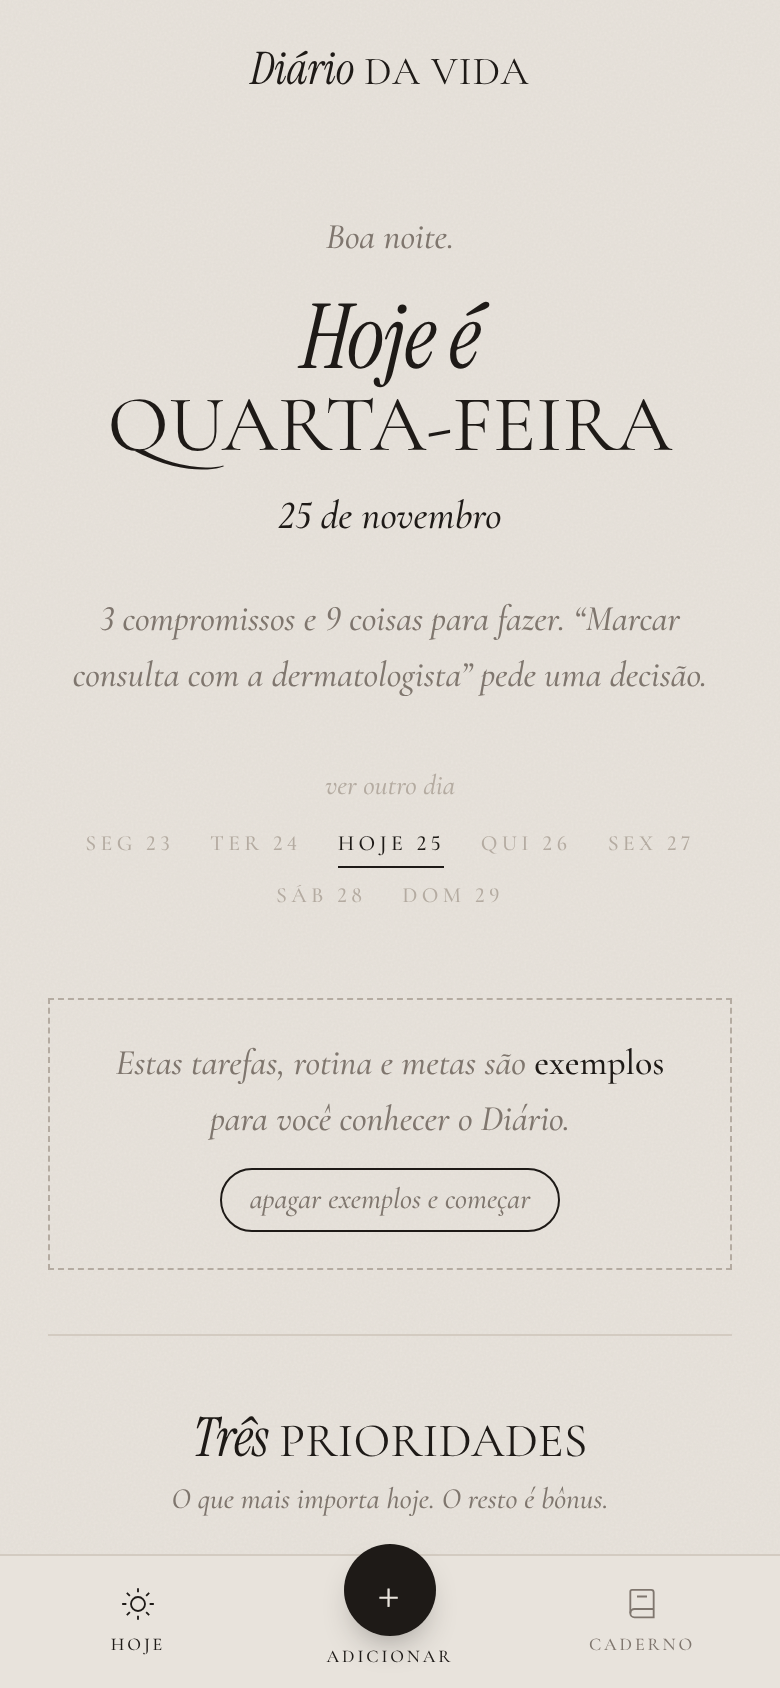
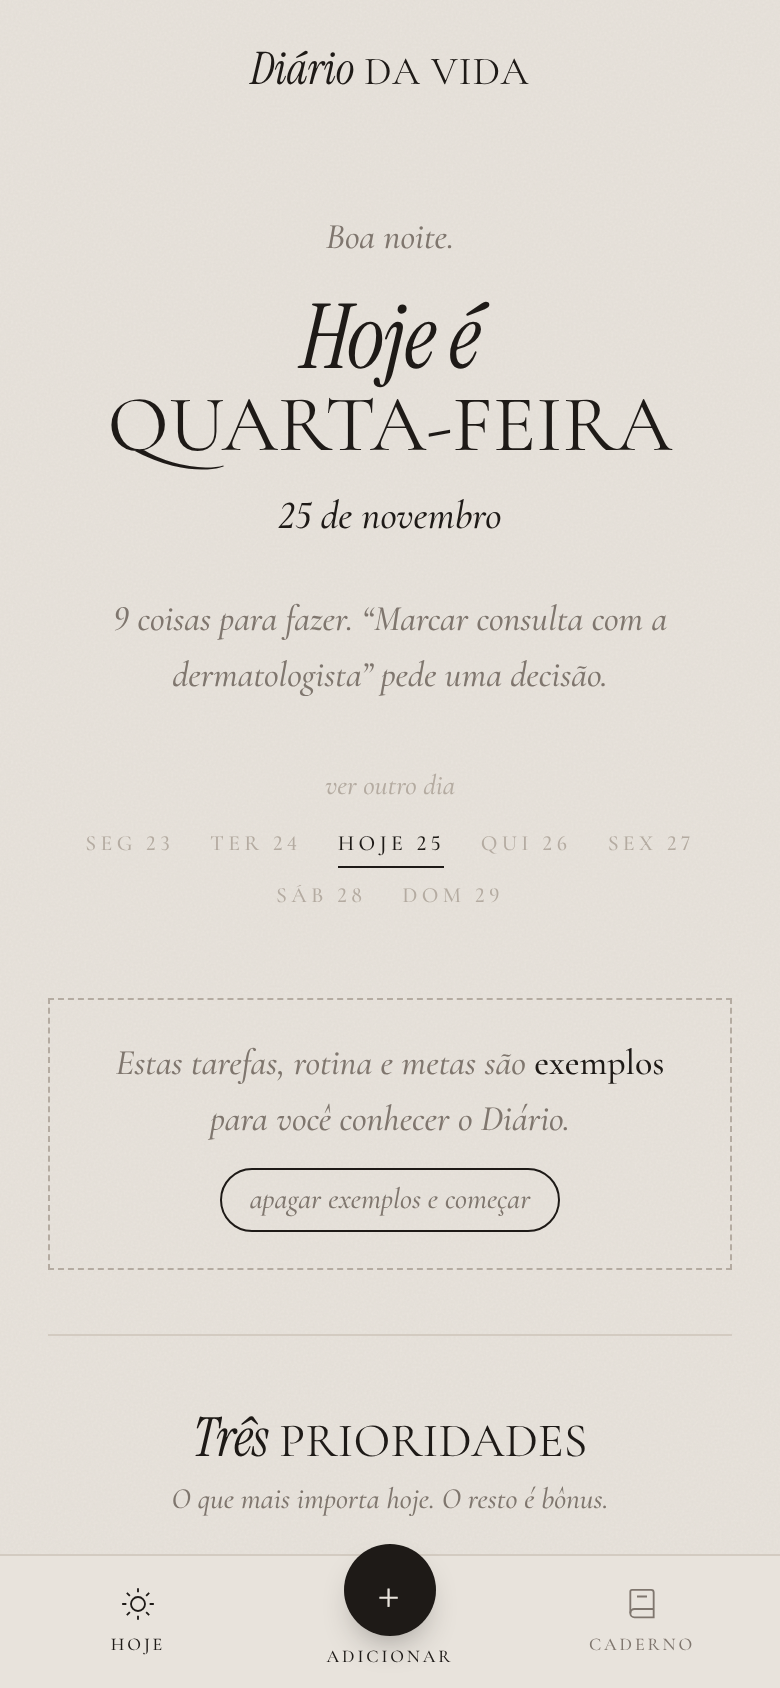
Remove a seção Agenda da tela Hoje
Claude-Session: https://claude.ai/code/session_01MbvNZUwf6py4KLNpPa7D6C

Changed region(s): [[0.1846, 0.3389, 0.7692, 0.4313], [0.8, 0.3697, 0.8308, 0.4005]]

diff --git a/src/app/page.tsx b/src/app/page.tsx
@@ -5,7 +5,7 @@ import { buildBriefing } from '@/lib/briefing';
 import { routineFor, tasksFor, useStore, useToast } from '@/lib/store';
 import type { Goal } from '@/lib/types';
 import { Frontispiece } from '@/components/hoje/Frontispiece';
-import { Agenda, DayList, GoalsLine, Priorities } from '@/components/hoje/Day';
+import { DayList, GoalsLine, Priorities } from '@/components/hoje/Day';
 import { CloseDay } from '@/components/hoje/CloseDay';
 
 const plural = (n: number, one: string, many: string) => `${n} ${n === 1 ? one : many}`;
@@ -19,7 +19,6 @@ export default function HojePage() {
   const sample = useStore((s) => s.sample);
   const clearSample = useStore((s) => s.clearSample);
   const tasks = useStore((s) => s.tasks);
-  const events = useStore((s) => s.events);
   const routine = useStore((s) => s.routine);
   const toast = useToast((s) => s.show);
 
@@ -38,18 +37,16 @@ export default function HojePage() {
 
   const isToday = selected === today;
   const dayTasks = tasksFor(tasks, selected);
-  const dayEvents = events.filter((e) => e.date === selected);
   const dayRoutine = routineFor(routine, selected);
-  const brief = buildBriefing(dayTasks, dayEvents, dayRoutine, isToday);
+  const brief = buildBriefing(dayTasks, [], dayRoutine, isToday);
 
   // Resumo em uma frase.
   const open = dayTasks.filter((t) => !t.done).length + dayRoutine.length;
-  const commitments = dayEvents.filter((e) => !e.free).length;
   const stuck = dayTasks.find((t) => !t.done && !t.star && t.rolled >= 3);
   const summary =
-    open + commitments === 0
+    open === 0
       ? 'Dia livre por enquanto.'
-      : `${commitments ? `${plural(commitments, 'compromisso', 'compromissos')} e ` : ''}${plural(open, 'coisa para fazer', 'coisas para fazer')}.` +
+      : `${plural(open, 'coisa para fazer', 'coisas para fazer')}.` +
         (stuck && isToday ? ` “${stuck.title}” pede uma decisão.` : '');
 
   const bump = (g: Goal) => { setBumped(g.id); setTimeout(() => setBumped(null), 1300); };
@@ -64,7 +61,6 @@ export default function HojePage() {
         </aside>
       )}
       <Priorities tasks={dayTasks} suggestion={brief.suggestion} readOnly={!isToday} />
-      <Agenda events={dayEvents} />
       <DayList date={selected} today={today} tasks={dayTasks} onGoal={bump} />
       <GoalsLine bumped={bumped} />
       {isToday && <CloseDay date={selected} />}

diff --git a/src/components/hoje/Day.tsx b/src/components/hoje/Day.tsx
@@ -2,7 +2,7 @@
 import { AnimatePresence, motion } from 'framer-motion';
 import { MAX_PRIORITIES, routineFor, routineKey, useStore, useToast } from '@/lib/store';
 import { useUI } from '@/lib/ui';
-import type { CalendarEvent, Goal, Task } from '@/lib/types';
+import type { Goal, Task } from '@/lib/types';
 import { MixTitle } from './Title';
 
 const enter = {
@@ -66,24 +66,6 @@ export function Priorities({ tasks, suggestion, readOnly }: { tasks: Task[]; sug
           </li>
         )}
       </ol>
-    </Section>
-  );
-}
-
-/* ---------------- agenda ---------------- */
-export function Agenda({ events }: { events: CalendarEvent[] }) {
-  if (events.length === 0) return null;
-  const sorted = [...events].sort((a, b) => a.start.localeCompare(b.start));
-  return (
-    <Section title="Agenda" note="Compromissos do dia (exemplo; a ligação com o Google Agenda vem depois).">
-      <ul className="agenda">
-        {sorted.map((e) => (
-          <li key={e.id} className={e.free ? 'free' : ''}>
-            <time className="tabular">{e.start}</time>
-            <span>{e.free ? 'livre, de propósito' : e.title}{e.place && !e.free ? <em> · {e.place}</em> : null}</span>
-          </li>
-        ))}
-      </ul>
     </Section>
   );
 }

diff --git a/src/app/hoje.css b/src/app/hoje.css
@@ -37,12 +37,6 @@
 .prio li.slot .num { color: var(--faint); }
 .prio li.slot .text { font-style: italic; color: var(--muted); font-size: 1.05rem; }
 
-/* agenda */
-.agenda { list-style: none; }
-.agenda li { display: grid; grid-template-columns: 64px minmax(0, 1fr); gap: 12px; padding: 6px 0; }
-.agenda time { font-family: var(--f-accent); font-style: italic; font-size: 1.1rem; color: var(--accent); }
-.agenda em { color: var(--muted); }
-.agenda li.free { color: var(--muted); font-style: italic; }
 
 /* lista do dia */
 .list { list-style: none; }

diff --git a/README.md b/README.md
@@ -45,7 +45,7 @@ src/
   components/
     shell/           topo, navegação do celular, login, avisos
     caderno/         registro rápido, imagens, busca
-    hoje/            frontispício, anotar, resumo, prioridades, tarefas, agenda, rotina, metas, fechar o dia
+    hoje/            frontispício, anotar, resumo, prioridades, tarefas, rotina, metas, fechar o dia
     ui/ornaments     ornamentos, selo e ícones
   lib/
     parse.ts         entende "pagar IPVA sexta 15h #finanças !"
@@ -61,7 +61,7 @@ docs/
 
 ## Estado atual
 
-- Identidade "Papel": fontes da referência (Cormorant Garamond em versais + Instrument Serif itálico), papel claro e tinta escura, uma coluna com muito respiro. Tela **Hoje** enxuta: prioridades, agenda, lista do dia (tarefas + rotina), metas em uma linha e encerrar o dia.
+- Identidade "Papel": fontes da referência (Cormorant Garamond em versais + Instrument Serif itálico), papel claro e tinta escura, uma coluna com muito respiro. Tela **Hoje** enxuta: prioridades, lista do dia (tarefas + rotina), metas em uma linha e encerrar o dia.
 - Motivos visuais em `src/components/ui/vintage.tsx`; cores e fontes em `src/app/globals.css` (`:root`).
 - **Caderno**: pensamentos e referências com texto, ditado, prints e fotos; temas, pastas, busca, edição com histórico de versões. A IA entra depois.
 - **Nuvem**: login por e-mail e senha e sincronização automática, ligados quando as variáveis do Supabase estão configuradas.
